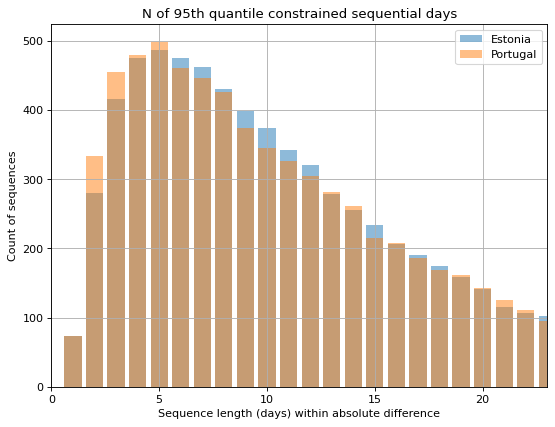
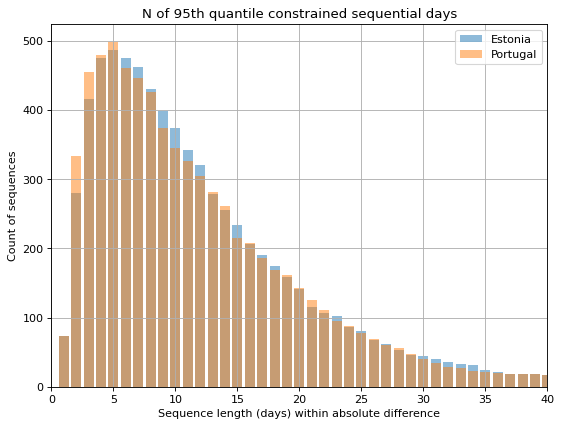
beta version of blog2

diff --git a/index_b2.html b/index_b2.html
@@ -699,21 +699,52 @@ def constrainedSubarrayHist(A, limit):
         <br><br>
 
         Another way to define the threshold heuristically, deciding ourselves what constitutes "too large" of a change in the day to day temperature such that we would not consider the days 
-        to have had "roughly the same" temperature. That is a decent interpretation of the subarray problem. 
+        to have had "roughly the same" temperature. That is a decent interpretation of the subarray problem. Immagine a summer week, where every 
+        day the temperature is around ... 30 degrees Celsius. One day it's 31, then 29, then 32, etc. These are all consecutive days within a 4 degree threshold, for example. 
+        As the summer ends, more and more the temperatures lower, but gradually. When a sudden shift happens, say 31,29,25,20 - here we are breaking form and seeing extreme changes. 
+        The lengths between these extreme events is what we are measuring, in both cases - what is different is the thresholds meaning.  
         
         <br><br>
 
-        I opt here for the quantile approach, as what constitutes a change from the norm in Estonia is probably not the same for Portugal, so the local 20 year based extremes should be more 
-        comparable. 
-
-
+        Both can be useful, so I'll demonstrate them here together. First the quantile approach. I choose the cosntraint to be the 95th quantile, that is to say, I count the number of sequential
+        days where the largest difference of temperatures is no greater than the difference seen only 5% of the days in the past 20 years. This value will be different for the regions, but it's
+        proportional meaning is the same. From the 20 years of data, I count how many times did any length of such continuous sequences occur, and plot the relevant histogram for Portugal and 
+        Estonia below:
         </p>
         
         <div style="text-align:center" >
           <img style="border-radius: 2em; object-fit: cover; object-position: 0 0; width: 50%; " src="b2_histogram.png" alt="Histogram of extreme bounded sequence lengths.">
         </div>
 
+        <p style="text-align:justify; ">
+        
+          We notice very little deviation from the two histograms, but a clear preference for longer sequences by Estonia. That is to say, there are on average longer periods of days
+          where the temperature does not shift by the 95th quantile shift. 
 
+          <br><br>
+
+          A bit more clearer is the second approach. Let's simply say, that we are looking for the distribution of lengths of sequential days, wehere the maximal difference in 
+          temperatures does not cross 4 degrees. Perhaps it's a bit low, but it should not change the relationship of the two countries histograms much. 
+
+        </p>
+
+        <div style="text-align:center" >
+          <img style="border-radius: 2em; object-fit: cover; object-position: 0 0; width: 50%; " src="b2_histogram_v2.png" alt="Histogram of extreme bounded sequence lengths.">
+        </div>
+
+        <p style="text-align:justify; ">
+
+          It turns out, that for a fixed temperature threshold, the differences between Portugal and Estonia are the oposite! They are also more visible, with Portugal preferring longer 
+          sequences constrained by the 4 degree bounds. We could interpret this as portugal showing on average longer periods without larger than 4 degree shifts, thus more stabile 
+          temperature in general. This is why both thresholding methods hold valuable information. 
+          
+          <br><br>
+
+          The quantile approach describes stability in terms of relative extremes. The fixed threshold describes stability in terms of a specific temperature value, without regard to 
+          the baseline. In terms of temperature persistence we observe then that Portugal has more persistent wether, while in the context of their geographic regions, the differences are
+          not so grand, perhaps even the oposite. Going any further in interpretation and analysis requires however different tools and more specific climatological expertice. 
+          
+        </p>
 
       <h3>Walkthrough crawler code:</h3>
 
